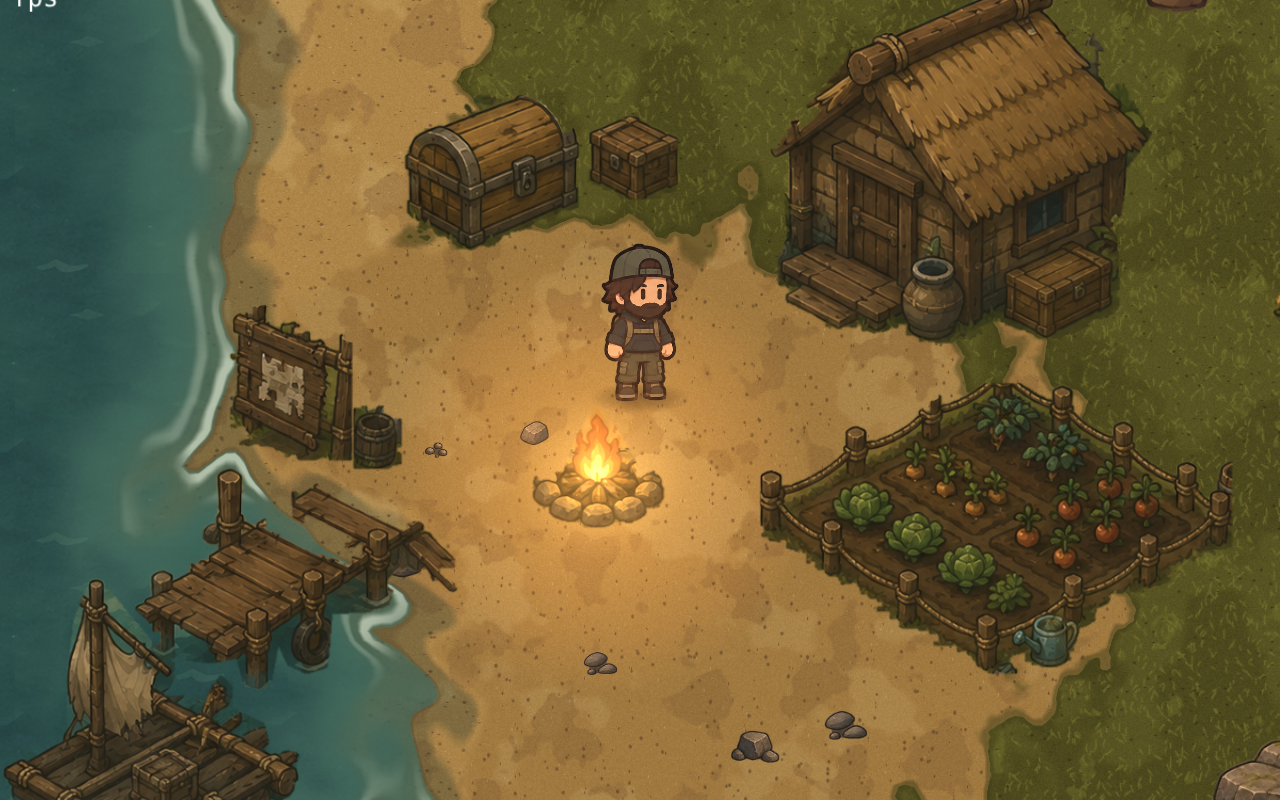
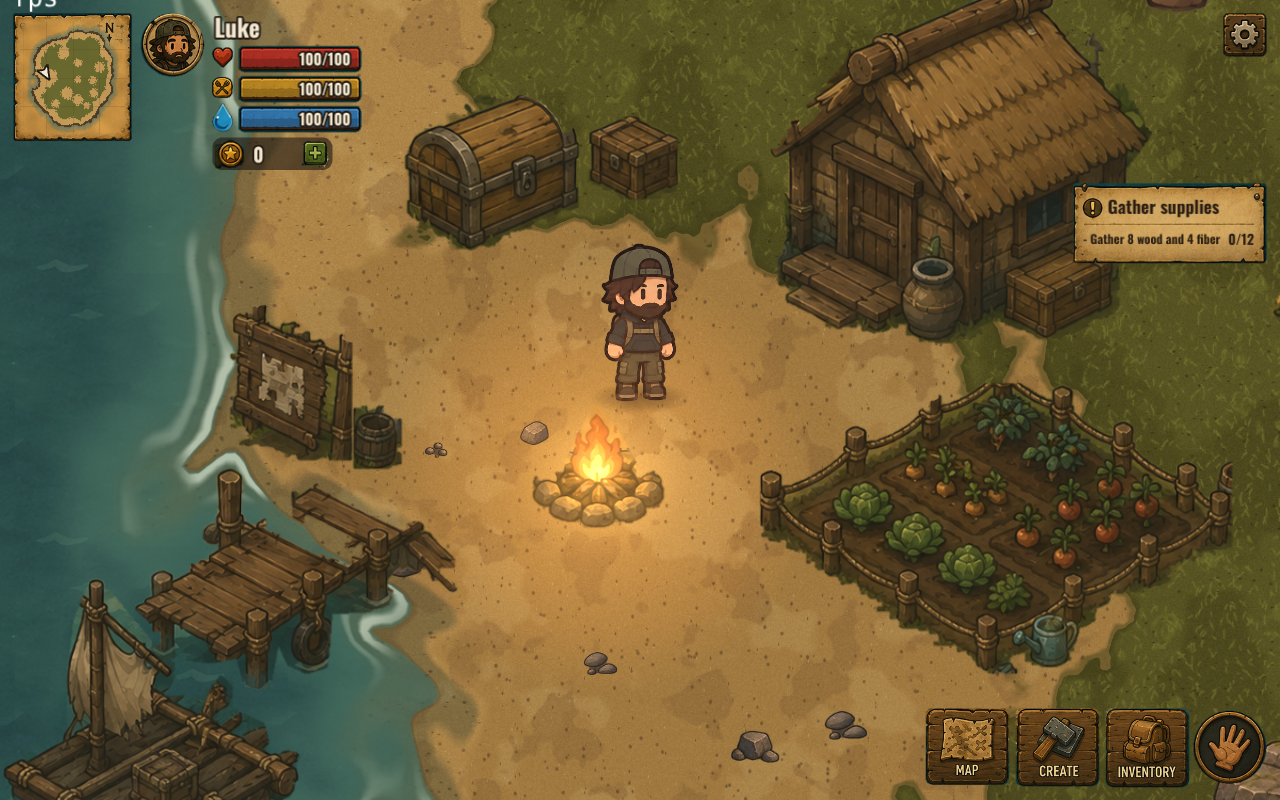
Island HUD from the mock-up (image 08)
Every piece is cut from image 08: the parchment map, portrait, stat icons,
bars, coin, plus, settings, goal panel and the Map, Create, Inventory and
hand buttons. Words painted into the panel and bars are inpainted out and
drawn live instead; the bar fill is a grey tinted per stat so the painted
shading stays.

Laid out for a portrait phone: map, portrait, name, health/food/water
bars and coins top left; settings and the goal panel top right; the four
buttons bottom right. On wider screens each group keeps to its corner,
and the layout respects notches and the gesture bar.

The map draws the generated island with an arrow that follows the
castaway. Bars show the brief's starting values and the panel shows the
first goal of the brief's chain (data in src/data/goals.json). The
buttons answer with a message until their screens are built. Taps on the
HUD no longer walk the castaway.

Claude-Session: https://claude.ai/code/session_018CfixfM7GKFLCjEGdXUUGb

diff --git a/src/scenes/HudScene.ts b/src/scenes/HudScene.ts
@@ -1,0 +1,324 @@
+import Phaser from 'phaser';
+import tuning from '../data/tuning.json';
+import goals from '../data/goals.json';
+import layout from '../data/generated/hud-layout.json';
+import type { Player } from '../entities/Player';
+import type { IslandData } from '../world/islandGen';
+
+/**
+ * The island HUD, laid out like image 08 but for a portrait phone: map and
+ * the castaway's portrait, name, bars and coins top left; settings and the
+ * goal panel top right; Map, Create, Inventory and the hand button along the
+ * bottom right. Positions are in points on a 360pt-wide screen; on wider
+ * screens each group keeps to its own corner.
+ */
+const DESIGN_W = 360;
+const DESIGN_H = 640;
+const M = 10;
+
+const TEXT_LIGHT = '#F3E8CF';
+const TEXT_DARK = '#2A1D12';
+const OUTLINE = '#211912';
+const BAR_COLOURS = { health: 0xd63a2c, food: 0xe3a52a, water: 0x3f8fd0 } as const;
+type Stat = keyof typeof BAR_COLOURS;
+
+interface Bar {
+  fill: Phaser.GameObjects.Image;
+  text: Phaser.GameObjects.Text;
+  max: number;
+}
+
+export class HudScene extends Phaser.Scene {
+  private player!: Player;
+  private island!: IslandData;
+  private k = 1;
+  private insets = { top: 0, right: 0, bottom: 0, left: 0 };
+  private hitAreas: Phaser.Geom.Rectangle[] = [];
+  private bars = {} as Record<Stat, Bar>;
+  private arrow!: Phaser.GameObjects.Graphics;
+  private mapRect = new Phaser.Geom.Rectangle();
+  private message?: Phaser.GameObjects.Container;
+  private root!: Phaser.GameObjects.Container;
+
+  constructor() {
+    super('hud');
+  }
+
+  init(data: { player: Player; island: IslandData }): void {
+    this.player = data.player;
+    this.island = data.island;
+  }
+
+  create(): void {
+    this.build();
+    this.scale.on('resize', this.build, this);
+    this.events.once('shutdown', () => this.scale.off('resize', this.build, this));
+  }
+
+  /** True when a screen point (game pixels) is on a HUD element, so a tap there doesn't walk. */
+  isOverHud(x: number, y: number): boolean {
+    return this.hitAreas.some((r) => r.contains(x, y));
+  }
+
+  showMessage(text: string): void {
+    this.message?.destroy();
+    const k = this.k;
+    const label = this.add
+      .text(0, 0, text, { fontFamily: 'Nunito, sans-serif', fontStyle: '700', fontSize: `${13 * k}px`, color: TEXT_LIGHT })
+      .setOrigin(0.5);
+    const w = label.width + 28 * k;
+    const h = label.height + 14 * k;
+    const pill = this.add.graphics();
+    pill.fillStyle(0x211912, 0.82).fillRoundedRect(-w / 2, -h / 2, w, h, h / 2);
+    const { width, height } = this.scale;
+    const y = height - this.insets.bottom - (M + 64 + 30) * k;
+    const box = this.add.container(width / 2, y, [pill, label]).setAlpha(0);
+    this.message = box;
+    this.tweens.add({ targets: box, alpha: 1, y: y - 10 * k, duration: 220, ease: 'Quad.easeOut' });
+    this.tweens.add({ targets: box, alpha: 0, delay: 2200, duration: 400, onComplete: () => box.destroy() });
+  }
+
+  setStat(stat: Stat, value: number): void {
+    const bar = this.bars[stat];
+    const v = Math.max(0, Math.min(bar.max, value));
+    const [x0, , x1] = layout.barFill;
+    const frameW = bar.fill.frame.width;
+    bar.fill.setCrop(0, 0, x0 + (x1 - x0) * (v / bar.max) + (v >= bar.max ? frameW - x1 : 0), bar.fill.frame.height);
+    bar.text.setText(`${Math.round(v)}/${bar.max}`);
+  }
+
+  private build(): void {
+    this.root?.destroy();
+    this.message?.destroy();
+    this.message = undefined;
+    this.hitAreas = [];
+    const { width, height } = this.scale;
+    this.k = Math.min(width / DESIGN_W, height / DESIGN_H);
+    this.insets = readInsets(this.registry.get('dpr') ?? 1);
+    this.root = this.add.container(0, 0);
+    this.buildTopLeft();
+    this.buildTopRight();
+    this.buildBottom();
+  }
+
+  // Left-anchored and right-anchored points, in game pixels.
+  private L(x: number): number {
+    return this.insets.left + x * this.k;
+  }
+
+  private R(x: number): number {
+    return this.scale.width - this.insets.right - (DESIGN_W - x) * this.k;
+  }
+
+  private T(y: number): number {
+    return this.insets.top + y * this.k;
+  }
+
+  private B(y: number): number {
+    return this.scale.height - this.insets.bottom - (DESIGN_H - y) * this.k;
+  }
+
+  /** Place a HUD atlas frame with its top-left at (x, y), sized to w points wide. */
+  private piece(frame: string, x: number, y: number, w: number): Phaser.GameObjects.Image {
+    const img = this.add.image(x, y, 'hud', frame).setOrigin(0);
+    img.setScale((w * this.k) / img.width);
+    this.root.add(img);
+    return img;
+  }
+
+  private text(x: number, y: number, s: string, size: number, colour: string, origin: [number, number] = [0, 0]): Phaser.GameObjects.Text {
+    const t = this.add
+      .text(x, y, s, {
+        fontFamily: 'Oswald, sans-serif',
+        fontStyle: '700',
+        fontSize: `${size * this.k}px`,
+        color: colour,
+        stroke: colour === TEXT_LIGHT ? OUTLINE : undefined,
+        strokeThickness: colour === TEXT_LIGHT ? 3 * this.k : 0,
+      })
+      .setOrigin(...origin);
+    this.root.add(t);
+    return t;
+  }
+
+  private button(frame: string, x: number, y: number, w: number, onTap: () => void): Phaser.GameObjects.Image {
+    const img = this.piece(frame, x, y, w);
+    const base = img.scale;
+    img.setOrigin(0.5).setPosition(x + img.displayWidth / 2, y + img.displayHeight / 2);
+    img.setInteractive({ useHandCursor: true });
+    img.on('pointerdown', () => {
+      this.tweens.add({ targets: img, scale: base * 0.92, duration: 70, yoyo: true });
+      onTap();
+    });
+    this.hitAreas.push(img.getBounds());
+    return img;
+  }
+
+  private buildTopLeft(): void {
+    const stats = tuning.stats;
+    // Parchment map with the island drawn into it.
+    const mapW = 96;
+    const map = this.piece('minimap', this.L(M), this.T(M), mapW);
+    this.hitAreas.push(map.getBounds());
+    const inner = { x: 14, y: 16, w: map.width - 28, h: map.height - 30 };
+    const s = map.scale;
+    this.mapRect.setTo(map.x + inner.x * s, map.y + inner.y * s, inner.w * s, inner.h * s);
+    const key = drawIslandMap(this, this.island, Math.round(this.mapRect.width), Math.round(this.mapRect.height));
+    this.root.add(this.add.image(this.mapRect.x, this.mapRect.y, key).setOrigin(0));
+    this.arrow = this.add.graphics();
+    this.root.add(this.arrow);
+
+    // Portrait, name, bars, coins.
+    this.piece('portrait', this.L(112), this.T(M), 52);
+    this.text(this.L(170), this.T(M - 2), stats.playerName, 19, TEXT_LIGHT);
+    const rows: [Stat, string, number][] = [
+      ['health', 'icon_health', stats.health],
+      ['food', 'icon_food', stats.food],
+      ['water', 'icon_water', stats.water],
+    ];
+    rows.forEach(([stat, icon, max], i) => {
+      const y = 36 + i * 24;
+      const ic = this.piece(icon, 0, 0, 18);
+      ic.setPosition(this.L(178) - ic.displayWidth / 2, this.T(y + 10) - ic.displayHeight / 2);
+      this.piece('bar_track', this.L(190), this.T(y), 100);
+      const fill = this.piece('bar_fill', this.L(190), this.T(y), 100).setTint(BAR_COLOURS[stat]);
+      const text = this.text(this.L(282), this.T(y + 10.5), '', 12, TEXT_LIGHT, [1, 0.5]);
+      this.bars[stat] = { fill, text, max };
+      this.setStat(stat, max);
+    });
+
+    const pill = this.add.graphics();
+    pill.fillStyle(0x211912, 0.62).fillRoundedRect(this.L(170), this.T(110), 96 * this.k, 26 * this.k, 8 * this.k);
+    this.root.add(pill);
+    const coin = this.piece('icon_coin', this.L(172), this.T(111), 24);
+    coin.setY(this.T(123) - coin.displayHeight / 2);
+    this.text(this.L(201), this.T(123), String(stats.startingCoins), 15, TEXT_LIGHT, [0, 0.5]);
+    this.button('button_plus', this.L(241), this.T(112), 22, () => this.showMessage("The shop isn't open yet."));
+  }
+
+  private buildTopRight(): void {
+    this.button('settings', this.R(DESIGN_W - M - 36), this.T(M), 36, () => this.showMessage('Settings are coming in a later update.'));
+
+    // The goal panel: the first goal in the brief's chain.
+    const w = 156;
+    const panel = this.piece('quest_panel', this.R(DESIGN_W - M - w), this.T(146), w);
+    this.hitAreas.push(panel.getBounds());
+    const s = panel.scale / this.k; // points per atlas pixel
+    const px = (ax: number): number => panel.x + ax * s * this.k;
+    const py = (ay: number): number => panel.y + ay * s * this.k;
+    const goal = goals.goals[0];
+    this.text(px(53), py(36), goal.title, 14, TEXT_DARK, [0, 0.5]);
+    const task = this.text(px(16), py(85), `- ${goal.task}`, 10.5, TEXT_DARK, [0, 0.5]);
+    const count = this.text(px(panel.width - 20), py(85), `0/${goal.target}`, 11, TEXT_DARK, [1, 0.5]);
+    // Long goals shrink to fit beside the count.
+    const room = count.x - count.width - 6 * this.k - task.x;
+    if (task.width > room) task.setScale(room / task.width);
+  }
+
+  private buildBottom(): void {
+    const size = 68;
+    const top = DESIGN_H - M - 64;
+    this.button('button_map', this.R(76), this.B(top), size, () => this.showMessage('The map is coming in a later update.'));
+    this.button('button_create', this.R(148), this.B(top), size, () => this.showMessage('Crafting is coming in a later update.'));
+    this.button('button_inventory', this.R(220), this.B(top), size, () => this.showMessage('The bag is coming in the next update.'));
+    this.button('button_hand', this.R(DESIGN_W - M - 60), this.B(top + 2), 60, () => this.showMessage('Nothing to use here.'));
+  }
+
+  update(): void {
+    // The castaway's arrow on the map, pointing the way he faces.
+    const r = this.mapRect;
+    const b = mapBounds(this.island);
+    const x = r.x + ((this.player.x - b.x) / b.size) * r.width;
+    const y = r.y + ((this.player.y - b.y) / b.size) * r.height;
+    const a = Math.PI - Phaser.Math.DegToRad(this.player.heading);
+    const k = this.k;
+    const g = this.arrow.clear();
+    g.setPosition(x, y).setRotation(a);
+    g.fillStyle(0xf1ead8, 1).lineStyle(1.5 * k, 0x211912, 1);
+    g.beginPath();
+    g.moveTo(0, -7 * k);
+    g.lineTo(5 * k, 5 * k);
+    g.lineTo(0, 2.5 * k);
+    g.lineTo(-5 * k, 5 * k);
+    g.closePath();
+    g.fillPath().strokePath();
+  }
+}
+
+/** The square of the world the map shows: the island and a little sea. */
+function mapBounds(island: IslandData): { x: number; y: number; size: number } {
+  const size = tuning.island.radius * 2.5;
+  return { x: island.center.x - size / 2, y: island.center.y - size / 2, size };
+}
+
+/**
+ * The island as the mock-up's map draws it: teal shallows around a sandy
+ * rim, green interior, a dark coastline and a faint grid, all washed onto
+ * the parchment.
+ */
+function drawIslandMap(scene: Phaser.Scene, island: IslandData, w: number, h: number): string {
+  const key = `island_map_${w}x${h}`;
+  if (scene.textures.exists(key)) return key;
+  const tex = scene.textures.createCanvas(key, w, h)!;
+  const ctx = tex.getContext();
+  const img = ctx.createImageData(w, h);
+  const f = island.fields;
+  const b = mapBounds(island);
+  const at = (field: Float32Array, wx: number, wy: number): number => {
+    const i = Math.min(f.w - 1, Math.max(0, Math.floor(wx / f.cell)));
+    const j = Math.min(f.h - 1, Math.max(0, Math.floor(wy / f.cell)));
+    return field[j * f.w + i];
+  };
+  const put = (k: number, c: [number, number, number], a: number): void => {
+    img.data[k] = c[0];
+    img.data[k + 1] = c[1];
+    img.data[k + 2] = c[2];
+    img.data[k + 3] = Math.round(a * 255);
+  };
+  for (let y = 0; y < h; y++)
+    for (let x = 0; x < w; x++) {
+      const wx = b.x + ((x + 0.5) / w) * b.size;
+      const wy = b.y + ((y + 0.5) / h) * b.size;
+      const d = at(f.coast, wx, wy);
+      const g = at(f.grass, wx, wy);
+      const k = (y * w + x) * 4;
+      const edge = Math.abs(d) < b.size / w;
+      if (edge) put(k, [56, 44, 30], 0.85);
+      else if (d < -tuning.island.shallowWidth * 1.3) continue;
+      else if (d < 0) put(k, [52, 108, 112], 0.55 * (1 + d / (tuning.island.shallowWidth * 1.3)) + 0.12);
+      else if (g > 0) put(k, [88, 98, 44], 0.85);
+      else put(k, [196, 160, 98], 0.7);
+    }
+  ctx.putImageData(img, 0, 0);
+  ctx.strokeStyle = 'rgba(80, 58, 34, 0.18)';
+  ctx.lineWidth = 1;
+  ctx.beginPath();
+  for (let i = 1; i < 4; i++) {
+    const gx = Math.round((w * i) / 4) + 0.5;
+    const gy = Math.round((h * i) / 4) + 0.5;
+    ctx.moveTo(gx, 0);
+    ctx.lineTo(gx, h);
+    ctx.moveTo(0, gy);
+    ctx.lineTo(w, gy);
+  }
+  ctx.stroke();
+  tex.refresh();
+  return key;
+}
+
+/** Safe-area insets (notches, rounded corners, gesture bar) in game pixels. */
+function readInsets(dpr: number): { top: number; right: number; bottom: number; left: number } {
+  const probe = document.createElement('div');
+  probe.style.cssText =
+    'position:fixed;visibility:hidden;padding:env(safe-area-inset-top,0px) env(safe-area-inset-right,0px) env(safe-area-inset-bottom,0px) env(safe-area-inset-left,0px)';
+  document.body.appendChild(probe);
+  const cs = getComputedStyle(probe);
+  const out = {
+    top: parseFloat(cs.paddingTop) * dpr,
+    right: parseFloat(cs.paddingRight) * dpr,
+    bottom: parseFloat(cs.paddingBottom) * dpr,
+    left: parseFloat(cs.paddingLeft) * dpr,
+  };
+  probe.remove();
+  return out;
+}

diff --git a/src/main.ts b/src/main.ts
@@ -4,10 +4,14 @@ import '@fontsource/nunito/700.css';
 import tuning from './data/tuning.json';
 import { hookPlatform } from './core/platform';
 import { BootScene } from './scenes/BootScene';
+import { HudScene } from './scenes/HudScene';
 import { IslandScene } from './scenes/IslandScene';
 
 const parent = document.getElementById('game')!;
 const dpr = Math.min(window.devicePixelRatio || 1, tuning.view.maxDevicePixelRatio);
+
+// The HUD draws its text on canvas, so the fonts must be ready first.
+await Promise.all(['700 16px Oswald', '700 16px Nunito'].map((f) => document.fonts.load(f).catch(() => undefined)));
 
 // The canvas is drawn at device resolution and shown at CSS size, so the
 // painted art stays sharp on high-density phone screens.
@@ -28,7 +32,7 @@ const game = new Phaser.Game({
   fps: { target: 60 },
   input: { activePointers: 2 },
   disableContextMenu: true,
-  scene: [BootScene, IslandScene],
+  scene: [BootScene, IslandScene, HudScene],
 });
 
 window.addEventListener('resize', () => {
@@ -36,4 +40,5 @@ window.addEventListener('resize', () => {
   game.scale.setZoom(1 / dpr);
 });
 
+game.registry.set('dpr', dpr);
 hookPlatform(game);

diff --git a/src/scenes/IslandScene.ts b/src/scenes/IslandScene.ts
@@ -2,6 +2,7 @@ import Phaser from 'phaser';
 import tuning from '../data/tuning.json';
 import rects from '../data/generated/image06-rects.json';
 import { Player } from '../entities/Player';
+import type { HudScene } from './HudScene';
 import { randomSeed, Rng } from '../core/rng';
 import { generateIsland, type IslandData } from '../world/islandGen';
 import { addTerrain } from '../world/terrainShader';
@@ -56,7 +57,12 @@ export class IslandScene extends Phaser.Scene {
       s: 'S',
       d: 'D',
     }) as typeof this.keys;
-    this.input.on('pointerdown', (p: Phaser.Input.Pointer) => this.player.walkTo({ x: p.worldX, y: p.worldY }));
+    this.scene.launch('hud', { player: this.player, island });
+    const hud = this.scene.get('hud') as HudScene;
+    this.input.on('pointerdown', (p: Phaser.Input.Pointer) => {
+      if (hud.isOverHud(p.x, p.y)) return;
+      this.player.walkTo({ x: p.worldX, y: p.worldY });
+    });
 
     if (params.has('debug')) this.fpsText = this.add.text(8, 8, '', { fontFamily: 'monospace', fontSize: '24px', color: '#fff' }).setScrollFactor(0).setDepth(1e7);
     // Lets automated screenshots drive the castaway.

diff --git a/src/scenes/BootScene.ts b/src/scenes/BootScene.ts
@@ -21,6 +21,7 @@ export class BootScene extends Phaser.Scene {
     this.load.setPath('assets/');
     this.load.multiatlas('character', 'character.json');
     this.load.multiatlas('world', 'world.json');
+    this.load.multiatlas('hud', 'hud.json');
     for (const t of ['sand', 'grass', 'water']) this.load.image(`tex_${t}`, `textures/${t}.png`);
   }
 

diff --git a/src/entities/Player.ts b/src/entities/Player.ts
@@ -37,6 +37,11 @@ export class Player {
     this.applyPose();
   }
 
+  /** The way he faces, in degrees: 0 toward the camera, 90 right, 180 away. */
+  get heading(): number {
+    return this.facing;
+  }
+
   get moving(): boolean {
     return this.path.length > 0;
   }
